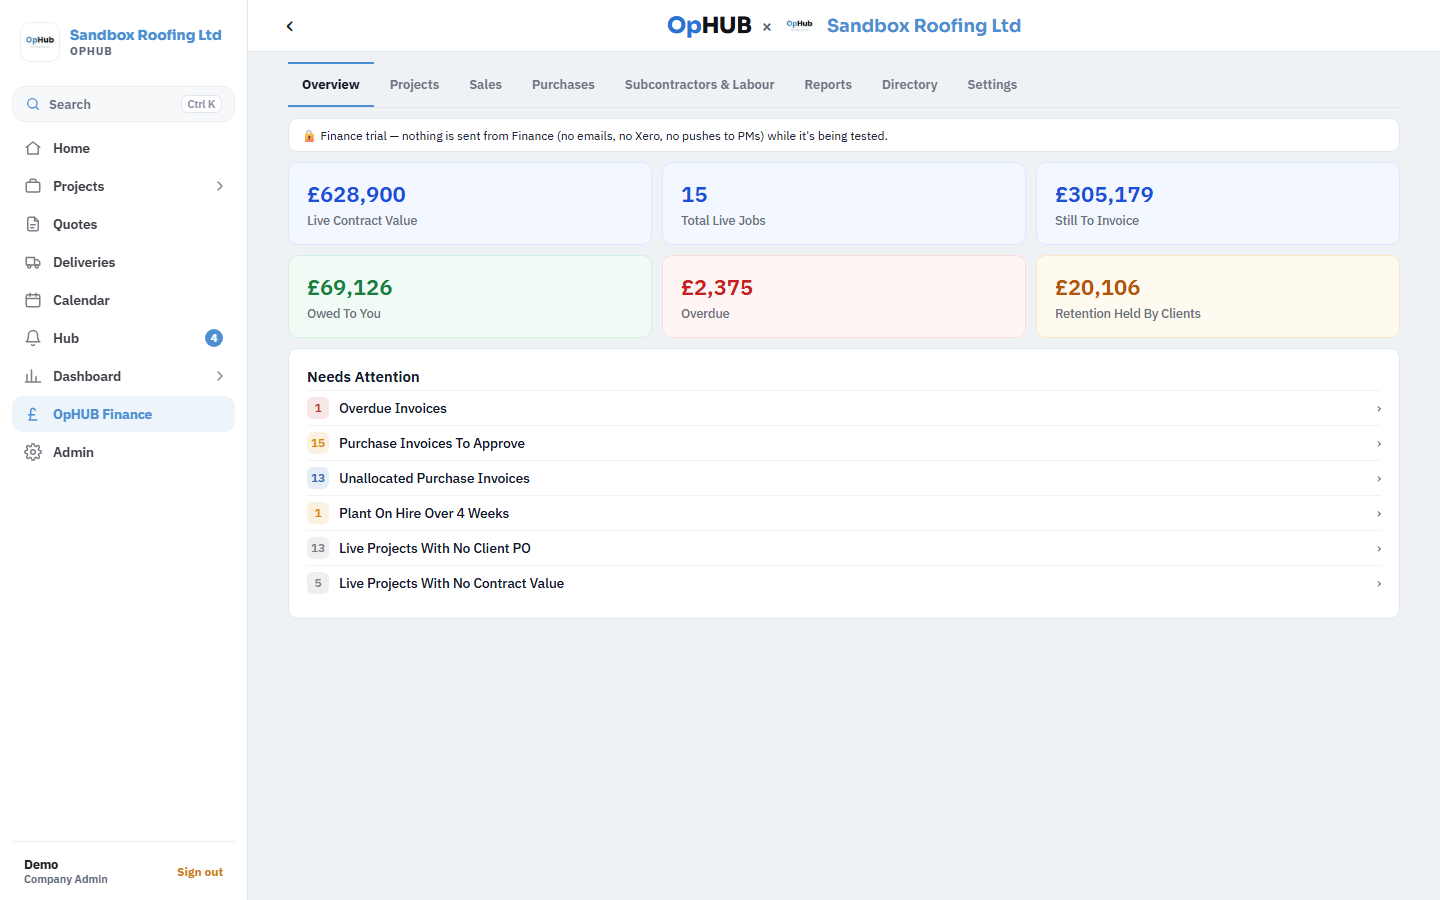
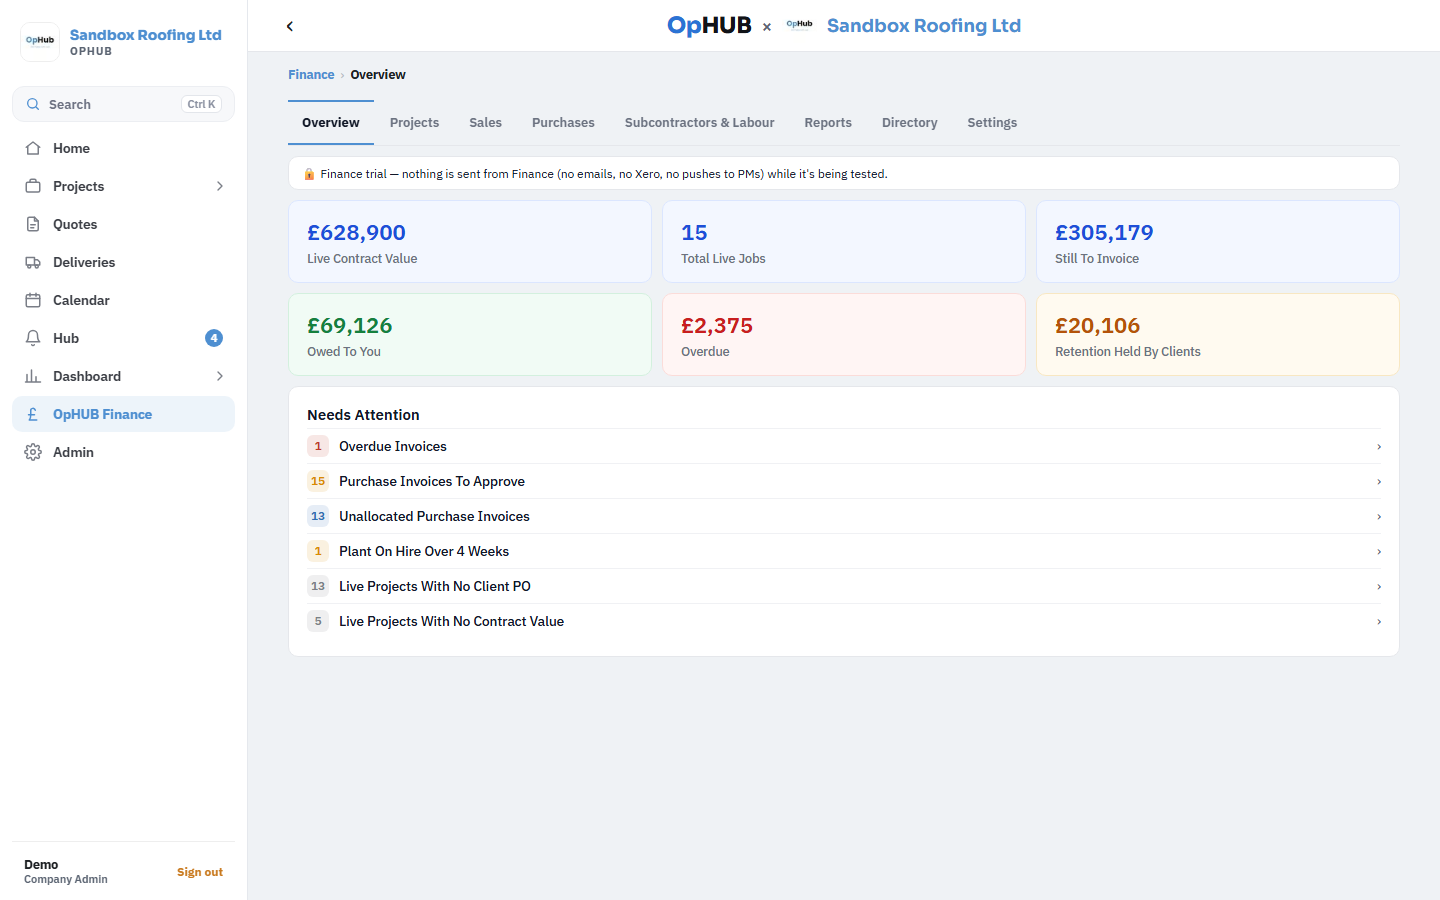
Finance Overview shows the page trail too.
Claude-Session: https://claude.ai/code/session_012KhfNvBEbifMJmPdX7yZfp

Changed region(s): [[0.1875, 0.0622, 0.7188, 0.6533], [0.7188, 0.1867, 0.8438, 0.4044], [0.2188, 0.6844, 0.4062, 0.7156]]

diff --git a/app-native/src/components/AppBar.tsx b/app-native/src/components/AppBar.tsx
@@ -77,7 +77,7 @@ export function AppBar({ title, onBack, home, right, noHistory }: { title?: stri
   const jobPage = finRest.length ? FIN_JOB_PAGES[finRest[0]] || titleCase(title || '') : undefined;
   const inside = finRest.length > 1 && finRest[1] !== 'new' ? (title && titleCase(title) !== jobPage ? titleCase(title) : null) : finRest[1] === 'new' ? 'New' : null;
   const secTab = tabLabel(FIN_SUBS[finSec], finSec === 'directory' ? (typeof qKind === 'string' ? qKind : undefined) : typeof qTab === 'string' ? qTab : undefined);
-  const finCrumbs: [string, string | null][] = path === '/fin' ? []
+  const finCrumbs: [string, string | null][] = path === '/fin' ? [['Finance', '/fin'], ['Overview', null]]
     : finJob ? [['Finance', '/fin'], ['Projects', '/fin/jobs'], [fJob ? `${[fJob.job_number, fJob.name].filter(Boolean).join(' ')}${finClient ? ` · ${finClient}` : ''}` : 'Project', jobTab || jobPage ? `/fin/job/${finJob}` : null],
       ...(jobTab && jobTab !== 'Overview' ? [[jobTab, null] as [string, null]] : []),
       ...(jobPage ? [[jobPage, inside ? `/fin/job/${finJob}/${finRest[0]}` : null] as [string, string | null]] : []),
